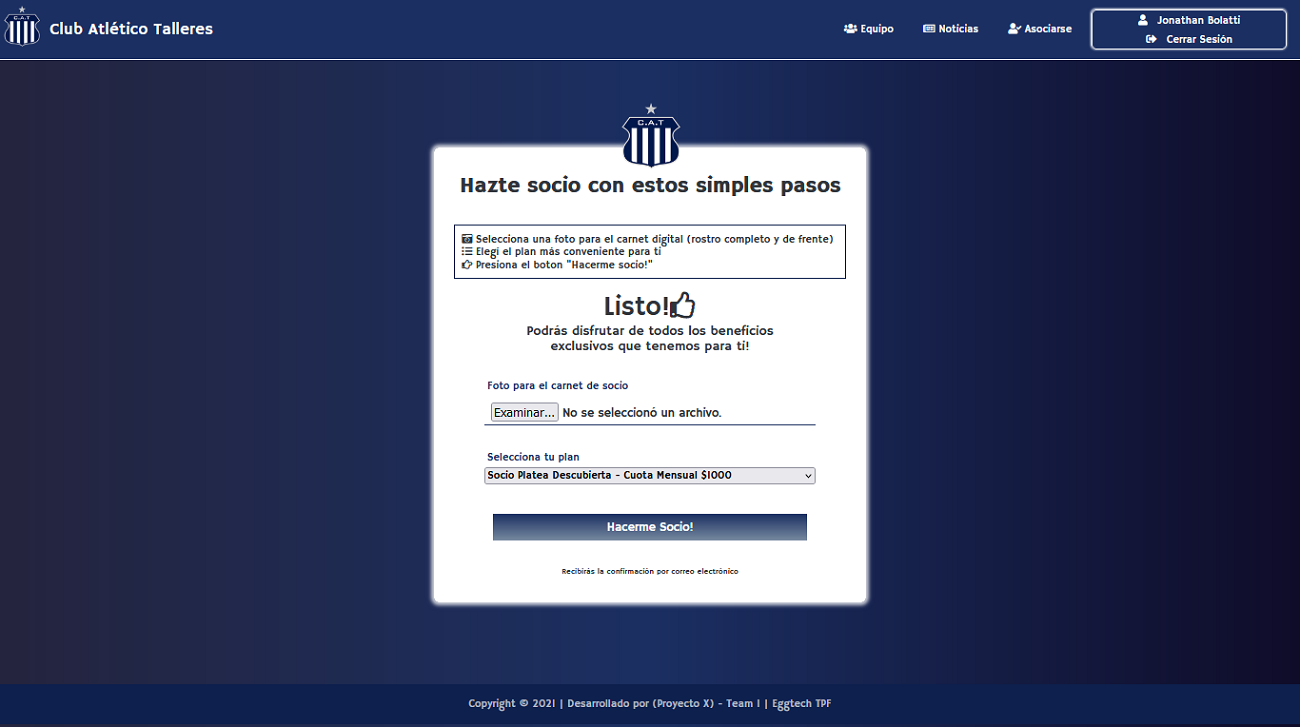
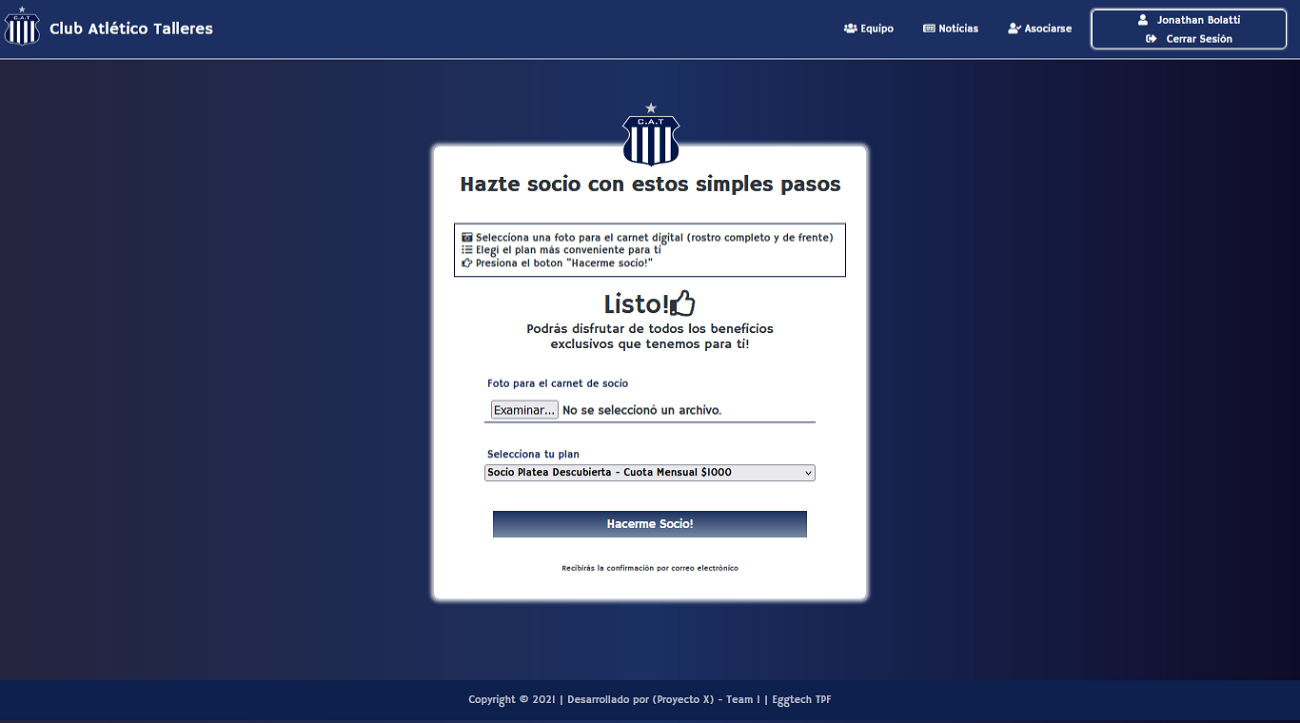
detalles

diff --git a/css/style.css b/css/style.css
@@ -163,11 +163,11 @@ input {
     height: 100%;
 }
 
-.btn-action {
+/* .btn-action {
     color: var(--color-secondary);
-}
+} */
 
-.carousel-indicators [data-bs-target] {
+.carousel-indicators  [data-bs-target]{
     box-sizing: content-box;
     flex: 0 1 auto;
     width: 30 px;
@@ -209,11 +209,7 @@ input {
 
 .footer {
     background: var(--color-primary);
-    position: static;
     width: 100%;
-    bottom: 0;
-    border: 0;
-
 }
 
 .contact {
@@ -297,10 +293,10 @@ input {
         font-size: 12px;
     }
 
-    .footer {
+    /* .footer {
         position: revert;
         bottom: 0;
-    }
+    } */
 
 }
 
@@ -316,10 +312,10 @@ input {
         min-width: 120px;
     }
 
-    .footer {
+    /* .footer {
         position: fixed;
         bottom: 0;
-    }
+    } */
 
 }
 
@@ -349,9 +345,9 @@ input {
         font-size: 12px;
     }
 
-    .footer {
+    /* .footer {
         position: fixed;
         bottom: 0;
-    }
+    } */
 
 }
